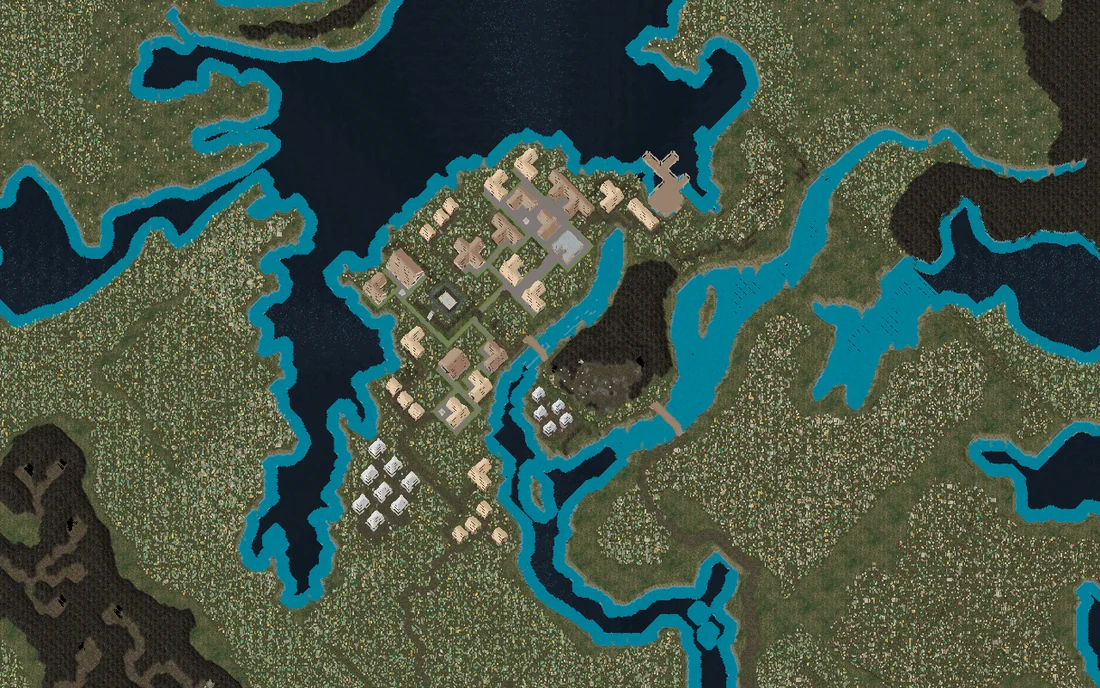
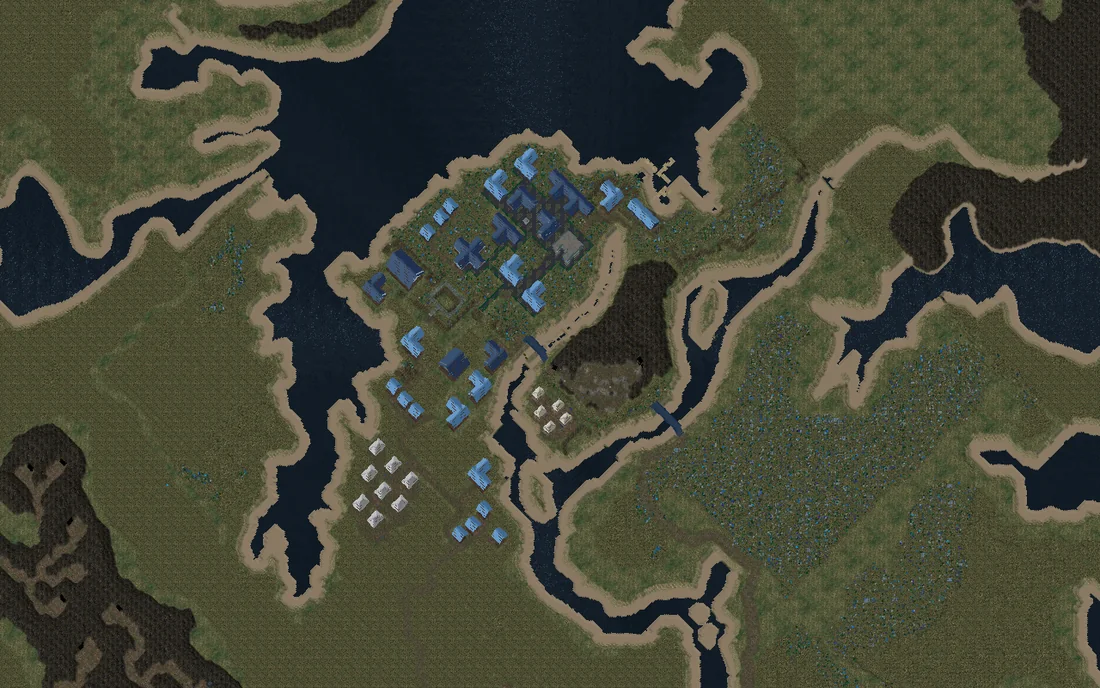
Display packed radar colors correctly in wide views

diff --git a/docs/SHOWCASE.md b/docs/SHOWCASE.md
@@ -109,9 +109,9 @@ In **F2 → Graphics**, enable **Show Only the Player's Floor**. **Only the Play
 
 Both captures are centered on the same point in Britain. The wide view covers 32 times as much world width as the close view.
 
-At scale 20 and wider, Dynamapper uses radar colors for statics. Low statics such as river and shoreline water remain visible wherever the depth test leaves them exposed.
+At scale 20 and wider, Dynamapper draws statics in their packed radar colors. Exposed river and shoreline water statics appear as solid cell fills, so the authored foam shapes and transparent edges are lost at this scale.
 
-![Wide KR-like view of Minoc with river and shoreline statics visible](images/showcase/world-zoom-minoc-overview.webp)
+![Wide KR-like view of Minoc and its river with statics in radar colors](images/showcase/world-zoom-minoc-overview.webp)
 
 *Minoc at scale 20 with Enhanced art and Kingdom Reborn terrain.*
 
